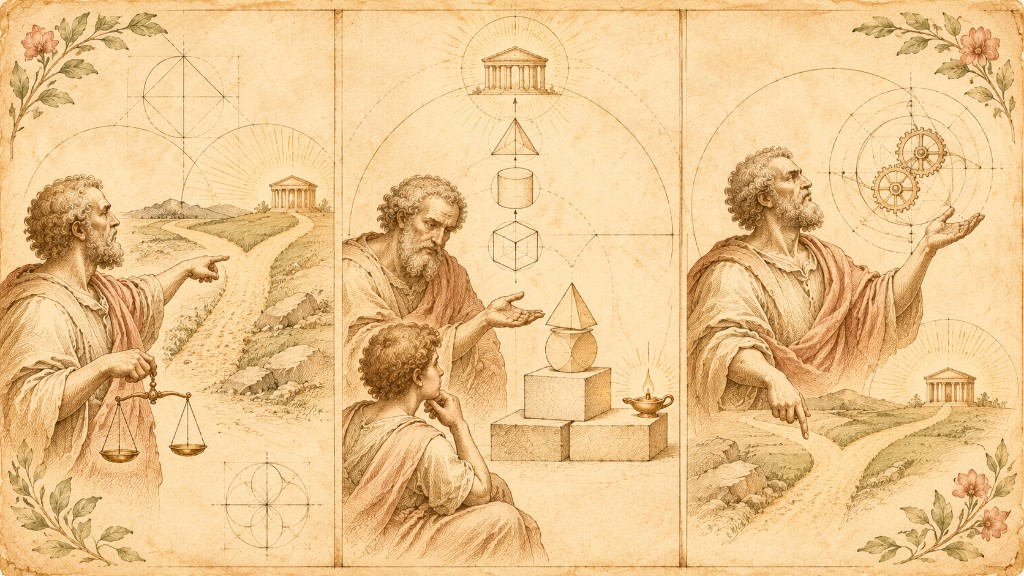
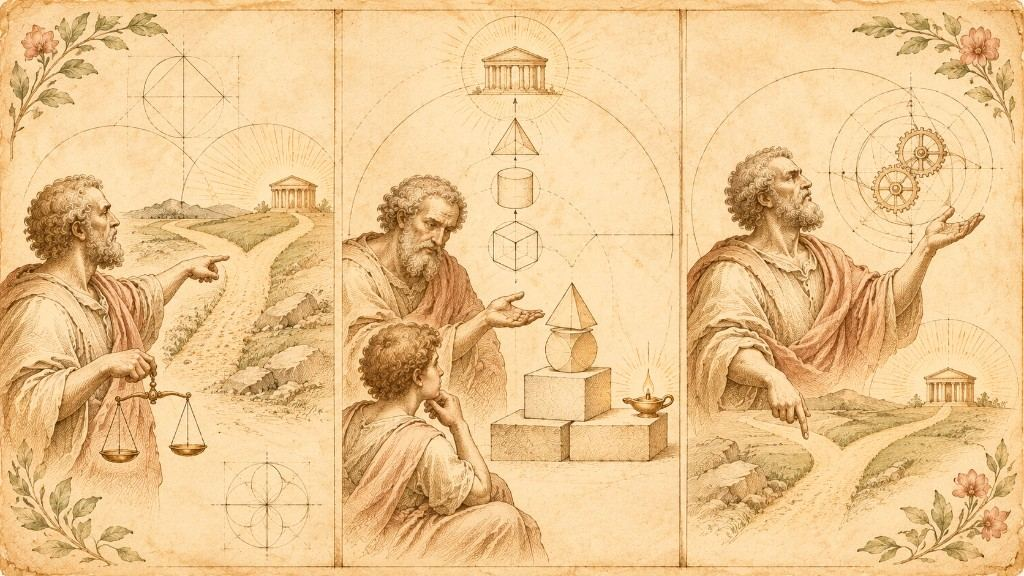
Compress README assets for faster page loads.
Convert the 3.1MB banner PNG to a 193KB JPEG and recompress the diagram plates so the repo page downloads far less.

diff --git a/README.md b/README.md
@@ -1,5 +1,5 @@
 <p align="center">
-  <img src="assets/think-from-zero-banner.png" alt="think-from-zero — reason from first principles" width="100%">
+  <img src="assets/think-from-zero-banner.jpg" alt="think-from-zero — reason from first principles" width="100%">
 </p>
 
 <h1 align="center">think-from-zero</h1>
@@ -246,7 +246,7 @@ think-from-zero/
 │   └── references/
 │       └── examples.md       # engineering · product · career walkthroughs
 ├── assets/
-│   ├── think-from-zero-banner.png
+│   ├── think-from-zero-banner.jpg
 │   ├── analogy-vs-bedrock.jpg
 │   ├── calibrated-effort.jpg
 │   ├── method-flow.jpg
